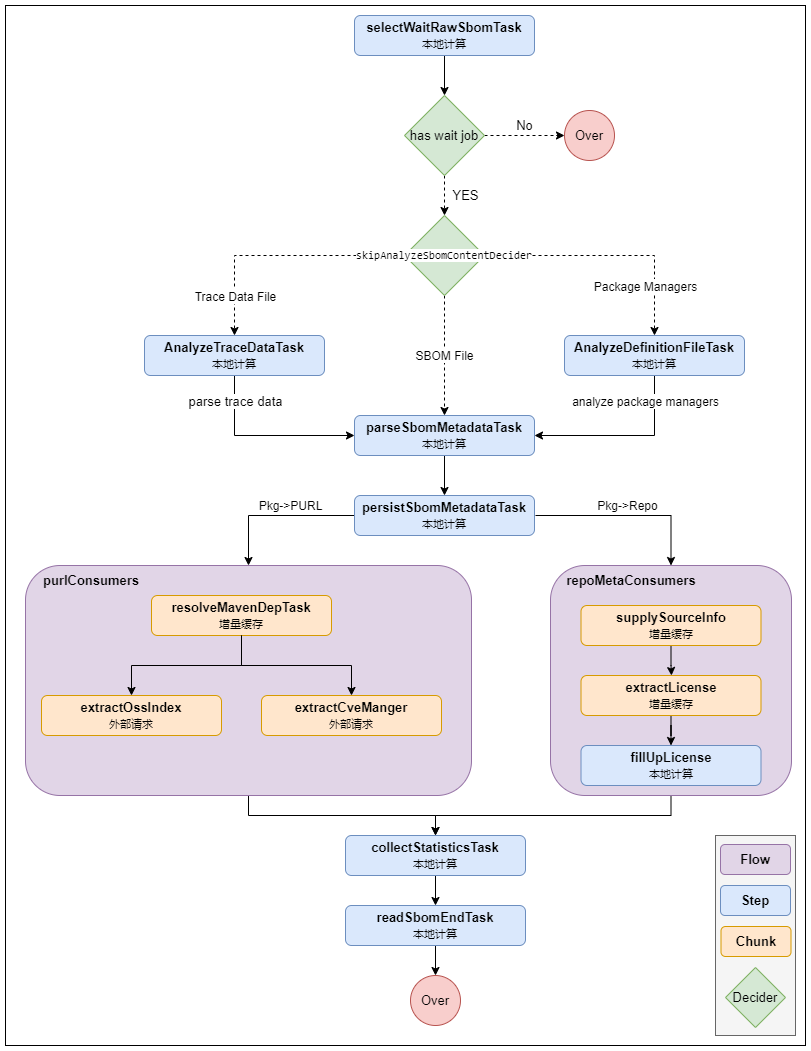
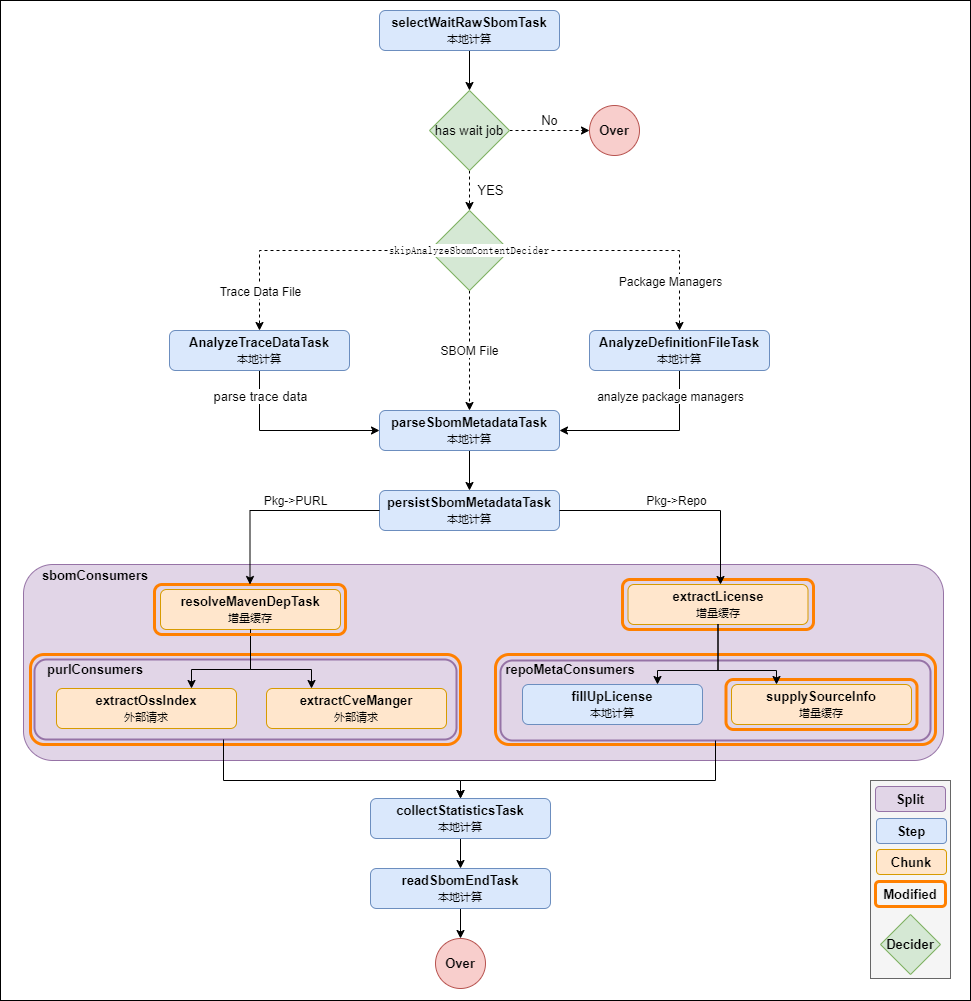
doc: optimize sbom import process flow

diff --git a/doc/import_sbom/importSbom.md b/doc/import_sbom/importSbom.md
@@ -1,12 +1,12 @@
 # SBOM导入
 
-依托SBOM客户端工具[sbom-generator](https://github.com/opensourceways/sbom-tools/tree/main/sbom-generator)、[sbom-tracer](https://github.com/opensourceways/sbom-tools/tree/main/sbom-tracer)结合CI/CD发布流水线，生成SBOM初始化数据：原始态的SBOM文件、eBPF监控数据、高阶语言包管理器配置文件等。
+依托SBOM客户端工具[sbom-generator](https://github.com/opensourceways/sbom-tools/tree/main/sbom-generator)、[sbom-tracer](https://github.com/opensourceways/sbom-tools/tree/main/sbom-tracer)结合CI/CD发布流水线，生成SBOM初始化数据：**原始态的SBOM文件**、**eBPF监控数据**、**高阶语言包管理器配置文件**等。
 
-通过调用SBOM-Service的数据导入API将SBOM初始化数据上传至服务端，SBOM-Service将会通过导入流程执行：监控数据解析、软件成分分析、依赖组件分析、SBOM元数据存储、上游社区数据卷积、漏洞安全数据卷积、License合规数据卷积、统计数据预计算等。
+通过调用SBOM-Service的数据导入API将SBOM初始化数据上传至服务端，SBOM-Service将会通过导入流程执行：**监控数据解析**、**软件成分分析**、**依赖组件分析**、**SBOM元数据存储**、**上游社区数据卷积**、**漏洞安全数据卷积**、**License合规数据卷积**、**统计数据预计算**等。
 
 [流程步骤配置文件](https://github.com/opensourceways/sbom-service/blob/main/src/main/resources/spring-batch/sbom-read-job.xml)。
 
-# 导入流程1.0
+# 导入流程1.0（已弃用）
 
 根据导入数据的相互依赖关系，依次进行：监控数据解析、软件成分分析、依赖组件分析、SBOM元数据存储、外部数据卷积等步骤。
 
@@ -16,18 +16,24 @@
 
 ![import-sbom-job-1.0.png](https://raw.githubusercontent.com/opensourceways/sbom-service/main/doc/assert/import-sbom-job-1.0.png)
 
-# 导入流程2.0
+# 导入流程2.0（当前版本）
 
-在1.0版本模块化拆分的基础上，对模块执行顺序和模块内部逻辑进行优化，优化导入耗时；预计包含1.6w+软件包的单个制品导入，识别1.5K+外部依赖组件，耗时30min内。
+在1.0版本模块化拆分的基础上，对模块执行顺序和模块内部逻辑进行优化，优化导入耗时。
+
+预计openEuler ISO制品导入，识别内容包含：1.6w+软件包、3K+子module组件、1.5K+外部依赖组件、5.6w+的补丁引用关系、7.6w+的License申明信息、5.9w+的运行时依赖、所有软件包/内外部组件的漏洞查询；耗时30-35min。
+
+[修改PR](https://github.com/opensourceways/sbom-service/pull/167)
 
 1. 将“resolveMavenDepTask”，“supplySourceInfo”，“extractLicense”的数据抽取方式，由“外部请求”改为“外部请求+增量缓存”，减少大量的外部请求IO耗时；
 2. 根据各步骤处理的数据场景进行分组拆分：package->PURL和package->repo，两组并行互不影响，不做无用的等待。
 
 ![import-sbom-job-2.0.png](https://raw.githubusercontent.com/opensourceways/sbom-service/main/doc/assert/import-sbom-job-2.0.png)
 
-# 导入流程3.0
+# 导入流程3.0（开发中）
 
-在2.0版本执行顺序调整和模块逻辑优化基础上，进一步优化数据来源和扩充外部依赖组件识别能力；预计包含1.6w+软件包的单个制品导入，识别5K+外部依赖组件，耗时20min内
+在2.0版本执行顺序调整和模块逻辑优化基础上，进一步优化数据来源和扩充外部依赖组件识别能力。
+
+预计openEuler ISO制品导入，识别内容包含：1.6w+软件包、3K+子module组件、1.5K+外部依赖组件、5.6w+的补丁引用关系、7.6w+的License申明信息、5.9w+的运行时依赖、所有软件包/内外部组件的漏洞查询；耗时10-15min。
 
 1. 自建统一漏洞库，异步对接业界主流漏洞源并聚合统一存储；SBOM Service直接对接统一漏洞库以替代“extractOssIndex”和“extractCveManger”；提高外部漏洞数据抽取的数据精度和效率；
 2. 已具备基于Maven包管理器的外部依赖组件识别能力，再新增Pypi、NPM等包管理器的支持。
